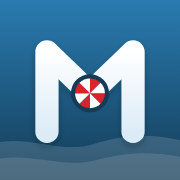
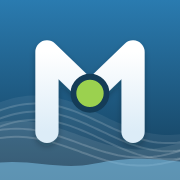
Ícone M com socalcos suaves e rio do Douro, paragem verde

Changed region(s): [[0.0, 0.3889, 1.0, 1.0], [0.6667, 0.8056, 0.6944, 0.8333]]

diff --git a/src/components/Logo.tsx b/src/components/Logo.tsx
@@ -14,13 +14,13 @@ export function LogoMark({ className = 'h-9 w-9', onDark = false }: { className?
 </defs>
 <rect width="200" height="200" rx="46" fill="url(#rm-bg)"/>
 {onDark && <rect x="3" y="3" width="194" height="194" rx="43" fill="none" stroke="#fff" strokeOpacity=".6" strokeWidth="6" />}
-<g clipPath="url(#rm-cl)"><path d="M-10 160C30 148 66 172 104 160S170 148 210 158V210H-10Z" fill="#fff" fillOpacity=".14"/><path d="M-10 178C34 168 68 188 106 178S172 168 210 176V210H-10Z" fill="#fff" fillOpacity=".12"/></g>
+<g clipPath="url(#rm-cl)"><path d="M-10.0 117.5 L-5.6 115.7 L-1.2 114.0 L3.2 112.5 L7.6 111.1 L12.0 109.8 L16.4 108.7 L20.8 107.8 L25.2 107.1 L29.6 106.5 L34.0 106.2 L38.4 106.0 L42.8 106.0 L47.2 106.3 L51.6 106.7 L56.0 107.3 L60.4 108.1 L64.8 109.0 L69.2 110.2 L73.6 111.5 L78.0 112.9 L82.4 114.5 L86.8 116.2 L91.2 118.0 L95.6 119.8 L100.0 121.8 L104.4 123.8 L108.8 125.9 L113.2 127.9 L117.6 130.0 L122.0 132.1 L126.4 134.1 L130.8 136.0 L135.2 137.9 L139.6 139.7 L144.0 141.4 L148.4 143.0 L152.8 144.5 L157.2 145.8 L161.6 146.9 L166.0 147.9 L170.4 148.7 L174.8 149.3 L179.2 149.7 L183.6 150.0 L188.0 150.0 L192.4 149.8 L196.8 149.5 L201.2 148.9 L205.6 148.2 L210.0 147.3 L210 210 L-10 210Z" fill="#fff" fillOpacity=".07"/><path d="M-10.0 126.5 L-5.6 124.7 L-1.2 123.0 L3.2 121.5 L7.6 120.1 L12.0 118.8 L16.4 117.7 L20.8 116.8 L25.2 116.1 L29.6 115.5 L34.0 115.2 L38.4 115.0 L42.8 115.0 L47.2 115.3 L51.6 115.7 L56.0 116.3 L60.4 117.1 L64.8 118.0 L69.2 119.2 L73.6 120.5 L78.0 121.9 L82.4 123.5 L86.8 125.2 L91.2 127.0 L95.6 128.8 L100.0 130.8 L104.4 132.8 L108.8 134.9 L113.2 136.9 L117.6 139.0 L122.0 141.1 L126.4 143.1 L130.8 145.0 L135.2 146.9 L139.6 148.7 L144.0 150.4 L148.4 152.0 L152.8 153.5 L157.2 154.8 L161.6 155.9 L166.0 156.9 L170.4 157.7 L174.8 158.3 L179.2 158.7 L183.6 159.0 L188.0 159.0 L192.4 158.8 L196.8 158.5 L201.2 157.9 L205.6 157.2 L210.0 156.3" fill="none" stroke="#fff" strokeOpacity="0.16" strokeWidth="2.2"/><path d="M-10.0 135.5 L-5.6 133.7 L-1.2 132.0 L3.2 130.5 L7.6 129.1 L12.0 127.8 L16.4 126.7 L20.8 125.8 L25.2 125.1 L29.6 124.5 L34.0 124.2 L38.4 124.0 L42.8 124.0 L47.2 124.3 L51.6 124.7 L56.0 125.3 L60.4 126.1 L64.8 127.0 L69.2 128.2 L73.6 129.5 L78.0 130.9 L82.4 132.5 L86.8 134.2 L91.2 136.0 L95.6 137.8 L100.0 139.8 L104.4 141.8 L108.8 143.9 L113.2 145.9 L117.6 148.0 L122.0 150.1 L126.4 152.1 L130.8 154.0 L135.2 155.9 L139.6 157.7 L144.0 159.4 L148.4 161.0 L152.8 162.5 L157.2 163.8 L161.6 164.9 L166.0 165.9 L170.4 166.7 L174.8 167.3 L179.2 167.7 L183.6 168.0 L188.0 168.0 L192.4 167.8 L196.8 167.5 L201.2 166.9 L205.6 166.2 L210.0 165.3" fill="none" stroke="#fff" strokeOpacity="0.16" strokeWidth="2.2"/><path d="M-10.0 144.5 L-5.6 142.7 L-1.2 141.0 L3.2 139.5 L7.6 138.1 L12.0 136.8 L16.4 135.7 L20.8 134.8 L25.2 134.1 L29.6 133.5 L34.0 133.2 L38.4 133.0 L42.8 133.0 L47.2 133.3 L51.6 133.7 L56.0 134.3 L60.4 135.1 L64.8 136.0 L69.2 137.2 L73.6 138.5 L78.0 139.9 L82.4 141.5 L86.8 143.2 L91.2 145.0 L95.6 146.8 L100.0 148.8 L104.4 150.8 L108.8 152.9 L113.2 154.9 L117.6 157.0 L122.0 159.1 L126.4 161.1 L130.8 163.0 L135.2 164.9 L139.6 166.7 L144.0 168.4 L148.4 170.0 L152.8 171.5 L157.2 172.8 L161.6 173.9 L166.0 174.9 L170.4 175.7 L174.8 176.3 L179.2 176.7 L183.6 177.0 L188.0 177.0 L192.4 176.8 L196.8 176.5 L201.2 175.9 L205.6 175.2 L210.0 174.3" fill="none" stroke="#fff" strokeOpacity="0.16" strokeWidth="2.2"/><path d="M-10.0 137.3 L-5.6 136.4 L-1.2 135.6 L3.2 135.0 L7.6 134.5 L12.0 134.2 L16.4 134.0 L20.8 134.0 L25.2 134.2 L29.6 134.5 L34.0 135.0 L38.4 135.6 L42.8 136.4 L47.2 137.3 L51.6 138.3 L56.0 139.5 L60.4 140.7 L64.8 142.1 L69.2 143.5 L73.6 145.0 L78.0 146.6 L82.4 148.1 L86.8 149.7 L91.2 151.4 L95.6 152.9 L100.0 154.5 L104.4 156.0 L108.8 157.5 L113.2 158.9 L117.6 160.2 L122.0 161.3 L126.4 162.4 L130.8 163.4 L135.2 164.2 L139.6 164.9 L144.0 165.4 L148.4 165.7 L152.8 166.0 L157.2 166.0 L161.6 165.9 L166.0 165.6 L170.4 165.2 L174.8 164.6 L179.2 163.9 L183.6 163.0 L188.0 162.0 L192.4 160.8 L196.8 159.6 L201.2 158.3 L205.6 156.9 L210.0 155.4 L210 210 L-10 210Z" fill="#fff" fillOpacity=".09"/><path d="M-10.0 146.3 L-5.6 145.4 L-1.2 144.6 L3.2 144.0 L7.6 143.5 L12.0 143.2 L16.4 143.0 L20.8 143.0 L25.2 143.2 L29.6 143.5 L34.0 144.0 L38.4 144.6 L42.8 145.4 L47.2 146.3 L51.6 147.3 L56.0 148.5 L60.4 149.7 L64.8 151.1 L69.2 152.5 L73.6 154.0 L78.0 155.6 L82.4 157.1 L86.8 158.7 L91.2 160.4 L95.6 161.9 L100.0 163.5 L104.4 165.0 L108.8 166.5 L113.2 167.9 L117.6 169.2 L122.0 170.3 L126.4 171.4 L130.8 172.4 L135.2 173.2 L139.6 173.9 L144.0 174.4 L148.4 174.7 L152.8 175.0 L157.2 175.0 L161.6 174.9 L166.0 174.6 L170.4 174.2 L174.8 173.6 L179.2 172.9 L183.6 172.0 L188.0 171.0 L192.4 169.8 L196.8 168.6 L201.2 167.3 L205.6 165.9 L210.0 164.4" fill="none" stroke="#fff" strokeOpacity="0.18" strokeWidth="2.2"/><path d="M-10.0 155.3 L-5.6 154.4 L-1.2 153.6 L3.2 153.0 L7.6 152.5 L12.0 152.2 L16.4 152.0 L20.8 152.0 L25.2 152.2 L29.6 152.5 L34.0 153.0 L38.4 153.6 L42.8 154.4 L47.2 155.3 L51.6 156.3 L56.0 157.5 L60.4 158.7 L64.8 160.1 L69.2 161.5 L73.6 163.0 L78.0 164.6 L82.4 166.1 L86.8 167.7 L91.2 169.4 L95.6 170.9 L100.0 172.5 L104.4 174.0 L108.8 175.5 L113.2 176.9 L117.6 178.2 L122.0 179.3 L126.4 180.4 L130.8 181.4 L135.2 182.2 L139.6 182.9 L144.0 183.4 L148.4 183.7 L152.8 184.0 L157.2 184.0 L161.6 183.9 L166.0 183.6 L170.4 183.2 L174.8 182.6 L179.2 181.9 L183.6 181.0 L188.0 180.0 L192.4 178.8 L196.8 177.6 L201.2 176.3 L205.6 174.9 L210.0 173.4" fill="none" stroke="#fff" strokeOpacity="0.18" strokeWidth="2.2"/><path d="M-10 182C30 175 66 190 104 182S170 175 210 181V210H-10Z" fill="#7ec3ea" fillOpacity=".55"/></g>
 
 <g filter="url(#rm-sh)">
 <path d="M48 150V54L100 104" fill="none" stroke="url(#rm-gv)" strokeWidth="28" strokeLinecap="round" strokeLinejoin="round"/>
 <path d="M100 104L152 54V150" fill="none" stroke="url(#rm-rv)" strokeWidth="28" strokeLinecap="round" strokeLinejoin="round"/>
 </g>
-<circle cx="100" cy="104" r="23" fill="#143c57"/><path d="M100 104L118.00 104.00A18 18 0 0 1 112.73 116.73Z" fill="#d8232a"/><path d="M100 104L112.73 116.73A18 18 0 0 1 100.00 122.00Z" fill="#ffffff"/><path d="M100 104L100.00 122.00A18 18 0 0 1 87.27 116.73Z" fill="#d8232a"/><path d="M100 104L87.27 116.73A18 18 0 0 1 82.00 104.00Z" fill="#ffffff"/><path d="M100 104L82.00 104.00A18 18 0 0 1 87.27 91.27Z" fill="#d8232a"/><path d="M100 104L87.27 91.27A18 18 0 0 1 100.00 86.00Z" fill="#ffffff"/><path d="M100 104L100.00 86.00A18 18 0 0 1 112.73 91.27Z" fill="#d8232a"/><path d="M100 104L112.73 91.27A18 18 0 0 1 118.00 104.00Z" fill="#ffffff"/>
+<circle cx="100" cy="104" r="20" fill="#9bd14f" stroke="#143c57" strokeWidth="7"/>
 
     </svg>
   )
